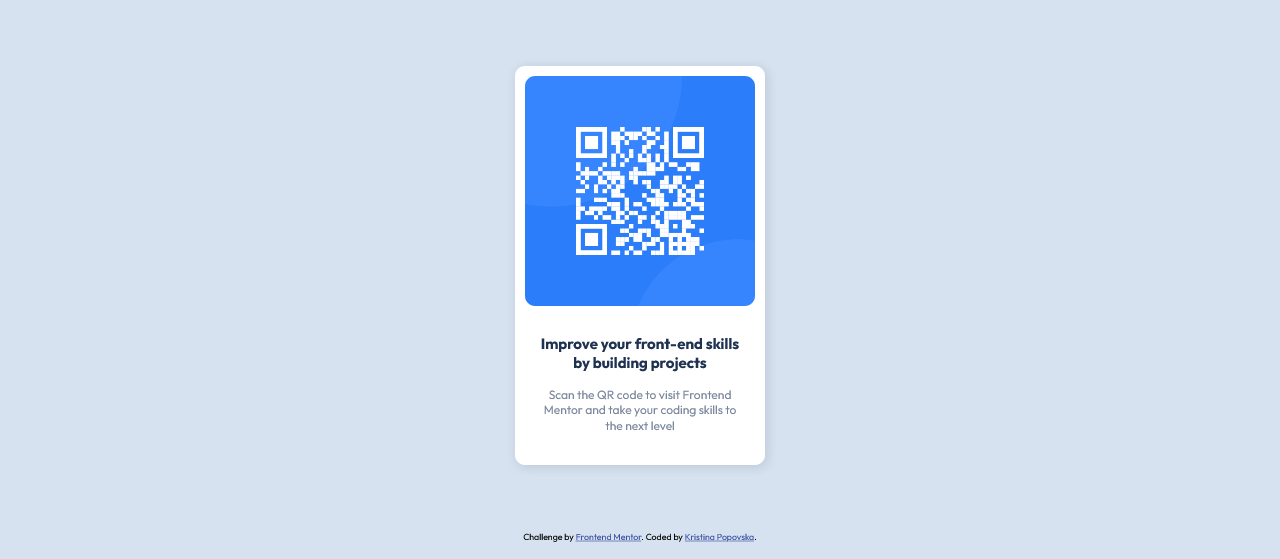
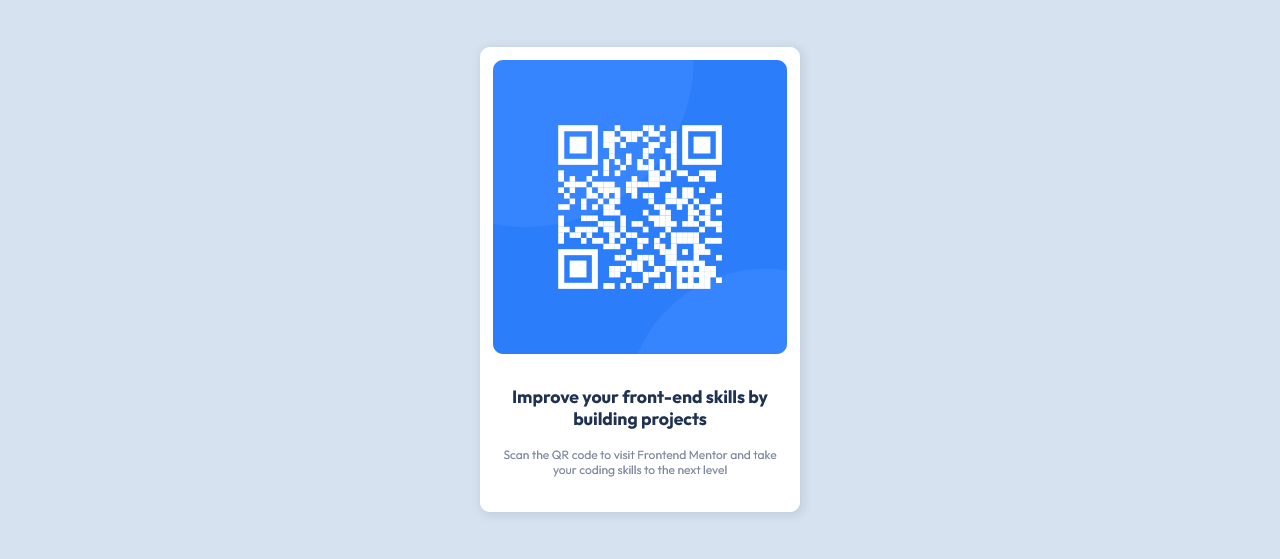
change padding to Project No.1 - QR code component main

Changed region(s): [[0.375, 0.0608, 0.625, 0.9732]]

diff --git a/qr-code-component-main/index.html b/qr-code-component-main/index.html
@@ -8,26 +8,14 @@
   <link rel="stylesheet" href="style.css">
   <title>Frontend Mentor | QR code component</title>
 
-  <!-- Feel free to remove these styles or customise in your own stylesheet 👍 -->
-  <style>
-    .attribution { font-size: 11px; text-align: center; }
-    .attribution a { color: hsl(228, 45%, 44%); }
-  </style>
 </head>
 <body>
-  <div class="QR-code__container">
     <div class="QR-code">
       <img src="images/image-qr-code.png" alt="QR code" class="QR-code__img">
       <div class="QR-code__description">
         <h3 class="QR-code__title">Improve your front-end skills by building projects</h3>
         <p class="QR-code__text">Scan the QR code to visit Frontend Mentor and take your coding skills to the next level</p>
       </div>
-      
     </div>
-  </div>
-  <div class="attribution">
-    Challenge by <a href="https://www.frontendmentor.io?ref=challenge" target="_blank">Frontend Mentor</a>. 
-    Coded by <a href="#">Kristina Popovska</a>.
-  </div>
 </body>
 </html>

diff --git a/qr-code-component-main/style.css b/qr-code-component-main/style.css
@@ -9,18 +9,14 @@ body {
     height: 100vh;
     font-family: 'Outfit', sans-serif;
     background-color: hsl(212, 45%, 89%);
-}
-
-.QR-code__container {
     display: flex;
     justify-content: center;
     align-items: center;
-    height: 95%;
 }
 
 .QR-code {
-    width: 300px;
-    padding: 10px;
+    width: 320px;
+    padding: 1rem;
     text-align: center;
     background-color: hsl(0, 0%, 100%);
     border-radius: 10px;
@@ -38,6 +34,7 @@ body {
 
 .QR-code__title {
     font-weight: 700;
+    font-size: 22px;
     color: hsl(218, 44%, 22%);
 }
 
